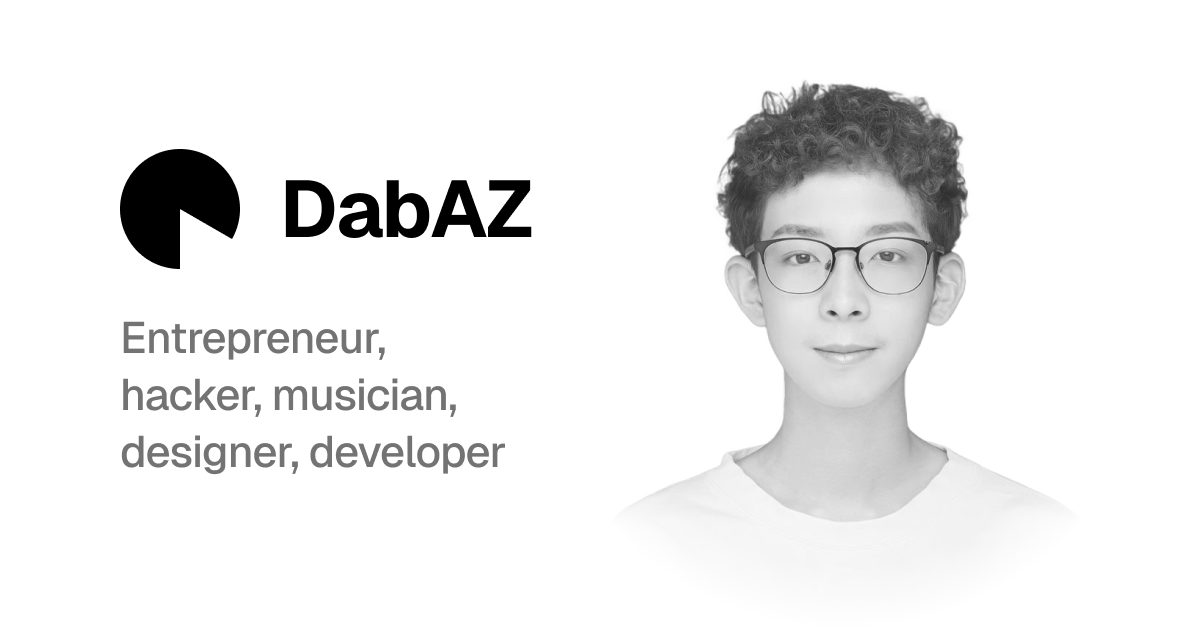
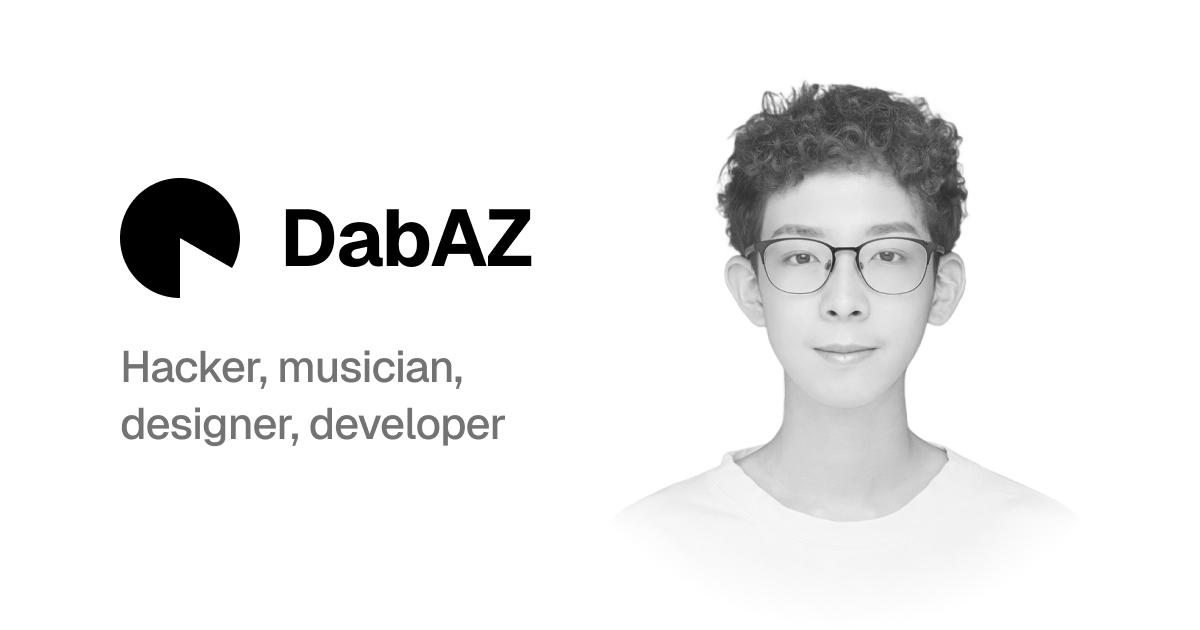
Update description

Changed region(s): [[0.0925, 0.5127, 0.4317, 0.754], [0.0925, 0.2413, 0.4625, 0.4222], [0.0925, 0.3619, 0.1542, 0.4825]]

diff --git a/src/app/siteConfig.ts b/src/app/siteConfig.ts
@@ -1,7 +1,7 @@
 export const siteConfig = {
   name: "DabAZ",
   url: "https://dabaz.me",
-  description: "Entrepreneur, hacker, musician, designer, developer.",
+  description: "Hacker, musician, designer, developer.",
   baseLinks: {
     home: "/",
     blog: "/blog"
